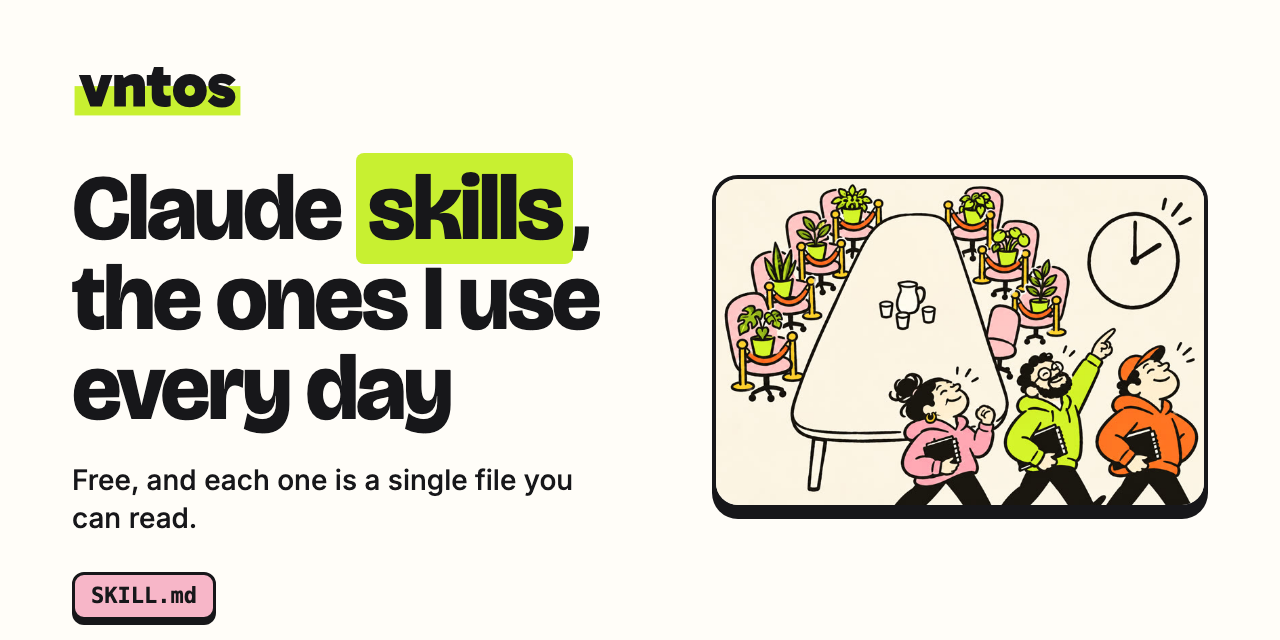
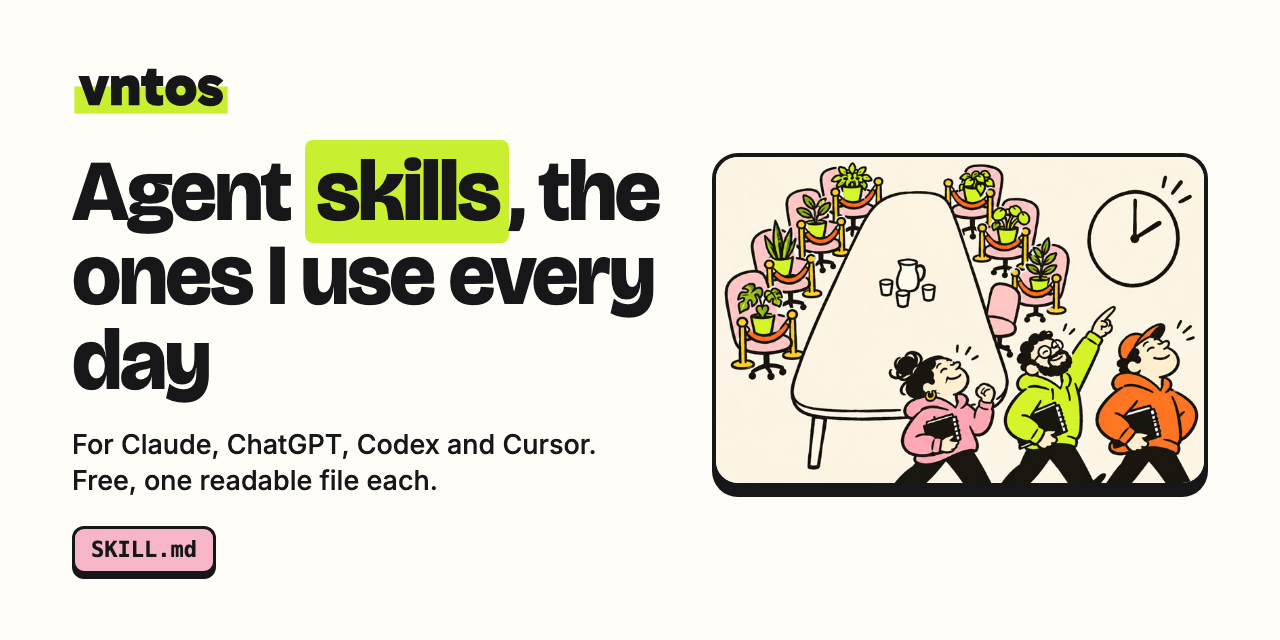
Agent skills for every tool: README install steps for Claude, ChatGPT, Codex, Cursor and Gemini CLI; repo renamed to agent-skills

Changed region(s): [[0.0312, 0.2188, 0.9688, 1.0], [0.0625, 0.0938, 0.1875, 0.1875]]

diff --git a/scripts/banner.html b/scripts/banner.html
@@ -5,19 +5,19 @@
 <style>
   html,body{margin:0;width:1280px;height:640px;background:#fffdf8;color:#17171a;font-family:Inter,sans-serif;overflow:hidden}
   .wrap{position:relative;width:1280px;height:640px;box-sizing:border-box;padding:64px 72px;display:grid;grid-template-columns:600px 1fr;gap:40px;align-items:center}
-  .logo{height:54px;display:block;margin-bottom:46px}
-  h1{font:800 92px/0.98 "Bricolage Grotesque",sans-serif;letter-spacing:-.03em;margin:0}
+  .logo{height:50px;display:block;margin-bottom:34px}
+  h1{font:800 86px/0.98 "Bricolage Grotesque",sans-serif;letter-spacing:-.03em;margin:0}
   mark{background:#c8f031;color:inherit;padding:0 .12em;border-radius:8px}
-  p{font-size:28px;line-height:1.35;margin:28px 0 0;max-width:540px;font-weight:500}
-  .file{display:inline-block;margin-top:34px;font:700 22px/1 ui-monospace,Menlo,monospace;background:#f7b6c8;border:3px solid #17171a;border-radius:12px;padding:10px 16px;box-shadow:0 5px 0 #17171a}
+  p{font-size:27px;line-height:1.35;margin:24px 0 0;max-width:540px;font-weight:500}
+  .file{display:inline-block;margin-top:26px;font:700 22px/1 ui-monospace,Menlo,monospace;background:#f7b6c8;border:3px solid #17171a;border-radius:12px;padding:10px 16px;box-shadow:0 5px 0 #17171a}
   .art{border:4px solid #17171a;border-radius:26px;overflow:hidden;box-shadow:0 10px 0 #17171a;background:#fff}
   .art img{display:block;width:100%}
 </style></head>
 <body><div class="wrap">
   <div>
     <img class="logo" src="../assets/logo.svg" alt="VNTOS">
-    <h1>Claude <mark>skills</mark>, the ones I use every day</h1>
-    <p>Free, and each one is a single file you can read.</p>
+    <h1>Agent <mark>skills</mark>, the ones I use every day</h1>
+    <p>For Claude, ChatGPT, Codex and Cursor. Free, one readable file each.</p>
     <span class="file">SKILL.md</span>
   </div>
   <div class="art"><img src="../assets/meeting-prep.jpg" alt=""></div>

diff --git a/README.md b/README.md
@@ -1,10 +1,10 @@
-<p align="center"><img src="assets/banner.png" alt="VNTOS Claude skills" width="100%"></p>
+<p align="center"><img src="assets/banner.png" alt="VNTOS agent skills for Claude, ChatGPT, Codex and Cursor" width="100%"></p>
 
-# Claude skills, the ones I use every day
+# Agent skills for Claude, ChatGPT, Codex and Cursor
 
-A skill is a set of instructions Claude follows for one job. These are the ones I run my own work on at [VNTOS](https://vntos.io), cleaned up so you can use them. They're free to use and change.
+A skill is a set of instructions your AI follows for one job. These are the ones I run my own work on at [VNTOS](https://vntos.io), cleaned up so you can use them. They're free to use and change.
 
-Every skill here is one plain file, `SKILL.md`, with no scripts and no code that runs on your computer. Read it before you add it. A check runs on every change to keep it that way ([what it checks](scripts/check.sh)).
+Each skill is one plain file, `SKILL.md`, written to the open [Agent Skills](https://agentskills.io) standard, so the same file works in Claude, ChatGPT, Codex, Cursor, Gemini CLI and the other tools that read it. There are no scripts and no code that runs on your computer. Read it before you add it. A check runs on every change to keep it that way ([what it checks](scripts/check.sh)).
 
 ## The skills
 
@@ -14,40 +14,71 @@ Every skill here is one plain file, `SKILL.md`, with no scripts and no code that
 
 A follow-up tracker, meeting notes and a writing check are next. Each one gets a page on [vntos.io/resources/skills](https://vntos.io/resources/skills) with a sample of what you get.
 
-## Add a skill to Claude
+## Add a skill
 
-### In the Claude app
+### Claude (the app)
 
-1. Download the zip from the skill's page on [vntos.io](https://vntos.io/resources/skills), or from the [latest release](https://github.com/vntos-io/claude-skills/releases/latest) here. Don't unzip it.
+1. Download the zip from the skill's page on [vntos.io](https://vntos.io/resources/skills), or from the [latest release](https://github.com/vntos-io/agent-skills/releases/latest) here. Don't unzip it.
 2. In Claude, go to Customize, then Skills.
 3. Click +, then Create skill, then Upload a skill, and pick the zip.
 
 If you don't see Skills, turn on code execution first under Settings, then Capabilities. It works on every plan, free included.
 
-### In Claude Code
+### Claude Code
 
 ```bash
-claude plugin marketplace add vntos-io/claude-skills
+claude plugin marketplace add vntos-io/agent-skills
 claude plugin install meeting-prep@vntos
 ```
 
 Then start a new session, or run `/reload-plugins` in one that's already open. Type `/meeting-prep`, or just ask for prep.
+
+### ChatGPT
+
+Skills are in ChatGPT Business, Enterprise and Edu workspaces ([OpenAI's guide](https://help.openai.com/en/articles/20001066-skills-in-chatgpt)).
+
+1. Download the zip, as above.
+2. In ChatGPT, open Plugins in the sidebar, then the Skills tab.
+3. Click Create, then Upload from your computer, and pick the zip.
+
+On Enterprise and Edu, an admin may need to turn on skill uploading first.
+
+### Codex, Cursor, Gemini CLI and others
+
+These all read skills from `~/.agents/skills/`. Put the skill's folder there:
+
+```bash
+mkdir -p ~/.agents/skills
+git clone --depth 1 https://github.com/vntos-io/agent-skills.git /tmp/vntos-skills
+cp -R /tmp/vntos-skills/skills/meeting-prep ~/.agents/skills/
+```
+
+Or use the [skills CLI](https://skills.sh), which knows where each tool looks:
+
+```bash
+npx skills add vntos-io/agent-skills --skill meeting-prep -g
+```
+
+Gemini CLI can also install it directly: `gemini skills install https://github.com/vntos-io/agent-skills.git --path skills/meeting-prep`.
+
+Restart the tool, then ask for prep.
 
 ## Updates
 
 I keep changing these as I use them, and every change is written down in the [changelog](CHANGELOG.md). A skill keeps its name and its job. If one starts working noticeably differently, its version number jumps from 1.x to 2.0.
 
 - In Claude Code, run `claude plugin update meeting-prep@vntos`, or turn on auto-update for the vntos marketplace under Marketplaces in `/plugin`.
-- In the Claude app, download the zip again and upload it over the old one.
+- In the Claude or ChatGPT app, download the zip again and upload it over the old one.
+- Anywhere else, copy the folder again, or run `npx skills update`.
 - To hear about it, click Watch at the top of this page, then Custom, then Releases. GitHub emails you when a new version is out.
 
 ## Questions and problems
 
-Open an [issue](https://github.com/vntos-io/claude-skills/issues/new/choose) if something doesn't work or you have an idea for a skill. I don't take pull requests, since I test every change on my own work first, but ideas in an issue are welcome. For anything security related, see [SECURITY.md](SECURITY.md).
+Open an [issue](https://github.com/vntos-io/agent-skills/issues/new/choose) if something doesn't work or you have an idea for a skill. I don't take pull requests, since I test every change on my own work first, but ideas in an issue are welcome. For anything security related, see [SECURITY.md](SECURITY.md).
 
 ## Want help with more than a skill?
 
-VNTOS builds software and AI tools for small and mid-size companies. If you want Claude set up for how your team works, [book a call](https://vntos.io/start).
+VNTOS builds software and AI tools for small and mid-size companies. If you want your AI set up for how your team works, [book a call](https://vntos.io/start).
 
 ## License
 

diff --git a/SECURITY.md b/SECURITY.md
@@ -2,6 +2,6 @@
 
 Every skill in this repo is plain text: one `SKILL.md` per skill, sometimes with more `.md` files beside it. Nothing here runs code on your computer, and [scripts/check.sh](scripts/check.sh) fails any change that adds a file that isn't Markdown inside `skills/`.
 
-A skill only reaches what you've already connected to your own Claude (for example, meeting-prep reads your email only if you've connected Gmail). Each skill's page says what it touches.
+A skill only reaches what you've already connected to your own AI app (for example, meeting-prep reads your email only if you've connected Gmail). Each skill's page says what it touches.
 
 If you find something that could hurt someone who uses these, please email support@vntos.io instead of opening a public issue. I'll reply within two business days.

diff --git a/.github/ISSUE_TEMPLATE/bug.md b/.github/ISSUE_TEMPLATE/bug.md
@@ -6,7 +6,7 @@ labels: bug
 
 **Which skill and version:**
 
-**Where you ran it** (Claude app, Claude Code, other):
+**Where you ran it** (Claude, Claude Code, ChatGPT, Codex, Cursor, other):
 
 **What you asked:**
 

diff --git a/.github/ISSUE_TEMPLATE/idea.md b/.github/ISSUE_TEMPLATE/idea.md
@@ -6,6 +6,6 @@ labels: idea
 
 **The job you want done:**
 
-**How you'd ask Claude for it:**
+**How you'd ask your AI for it:**
 
 **What a good answer looks like:**
